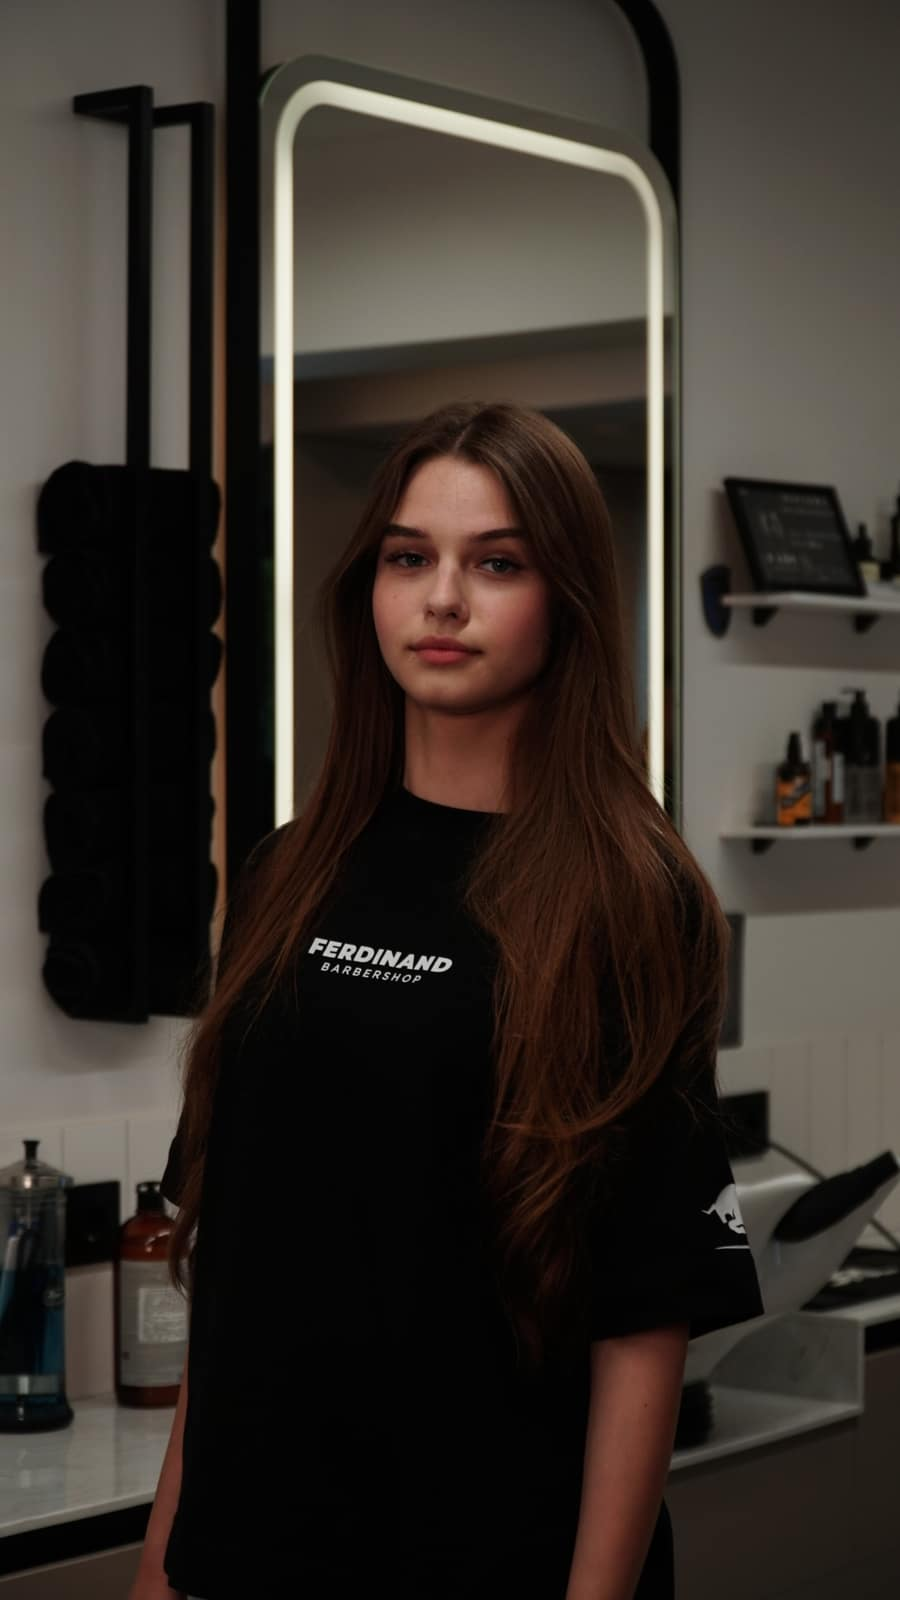
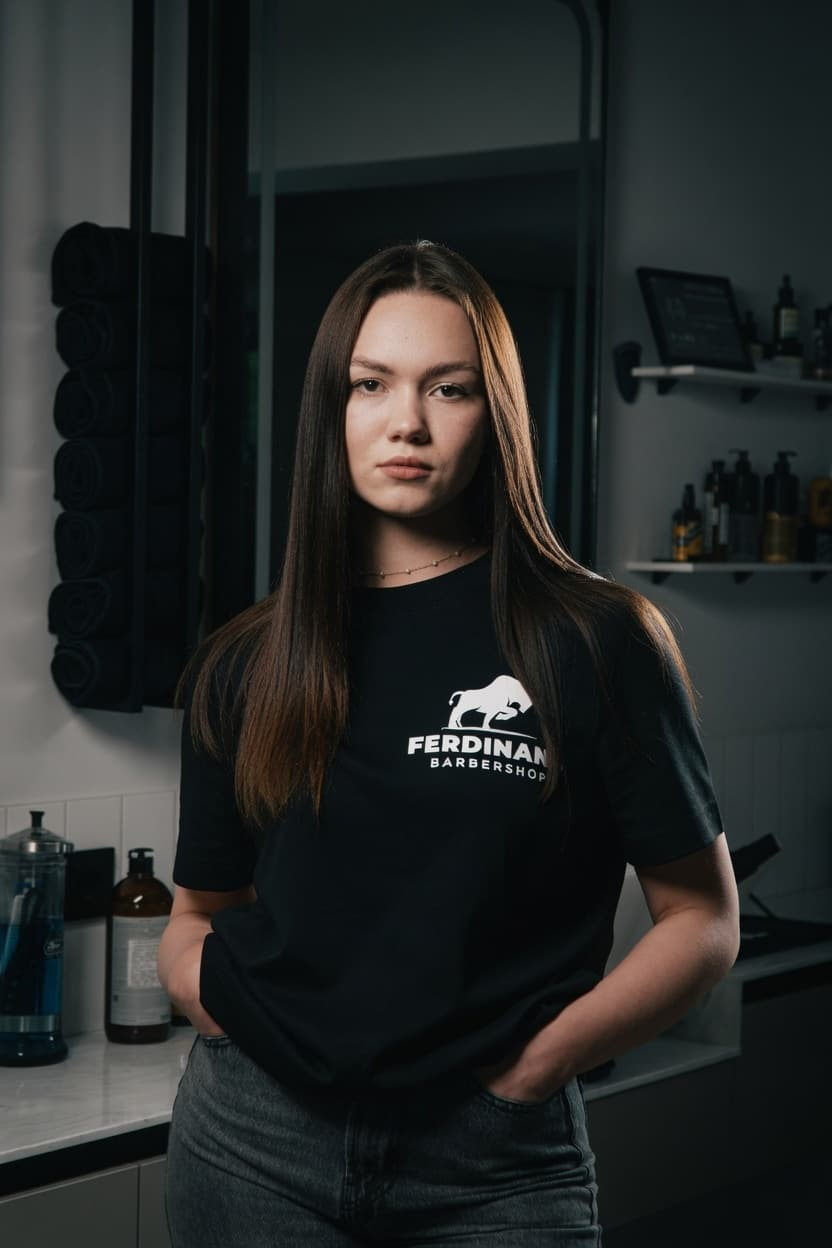
content(about): replace gallery with team photos (5 portraits from last-images)

diff --git a/about.html b/about.html
@@ -91,22 +91,16 @@
                 </div>
                 <div class="about-infinite-gallery">
                     <div class="about-loop-track">
-                        <figure><img loading="lazy" decoding="async" src="images/gallery-1.jpg" alt="Ferdinand barbershop"><figcaption>Craft</figcaption></figure>
-                        <figure><img loading="lazy" decoding="async" src="images/gallery-2.jpg" alt="Ferdinand barbershop"><figcaption>Form</figcaption></figure>
-                        <figure><img loading="lazy" decoding="async" src="images/gallery-3.jpg" alt="Ferdinand barbershop"><figcaption>Detail</figcaption></figure>
-                        <figure><img loading="lazy" decoding="async" src="images/gallery-4.jpg" alt="Ferdinand barbershop"><figcaption>Care</figcaption></figure>
-                        <figure><img loading="lazy" decoding="async" src="images/gallery-5.jpg" alt="Ferdinand barbershop"><figcaption>Style</figcaption></figure>
-                        <figure><img loading="lazy" decoding="async" src="images/gallery-6.jpg" alt="Ferdinand barbershop"><figcaption>Texture</figcaption></figure>
-                        <figure><img loading="lazy" decoding="async" src="images/gallery-8.jpg" alt="Ferdinand barbershop"><figcaption>Mood</figcaption></figure>
-                        <figure><img loading="lazy" decoding="async" src="images/gallery-9.jpg" alt="Ferdinand barbershop"><figcaption>Shape</figcaption></figure>
+                        <figure><img loading="lazy" decoding="async" src="images/gallery-1.jpg" alt="Команда Ferdinand"><figcaption>Craft</figcaption></figure>
+                        <figure><img loading="lazy" decoding="async" src="images/gallery-2.jpg" alt="Команда Ferdinand"><figcaption>Form</figcaption></figure>
+                        <figure><img loading="lazy" decoding="async" src="images/gallery-3.jpg" alt="Команда Ferdinand"><figcaption>Detail</figcaption></figure>
+                        <figure><img loading="lazy" decoding="async" src="images/gallery-4.jpg" alt="Команда Ferdinand"><figcaption>Care</figcaption></figure>
+                        <figure><img loading="lazy" decoding="async" src="images/gallery-5.jpg" alt="Команда Ferdinand"><figcaption>Style</figcaption></figure>
                         <figure><img loading="lazy" decoding="async" src="images/gallery-1.jpg" alt="" aria-hidden="true"><figcaption>Craft</figcaption></figure>
                         <figure><img loading="lazy" decoding="async" src="images/gallery-2.jpg" alt="" aria-hidden="true"><figcaption>Form</figcaption></figure>
                         <figure><img loading="lazy" decoding="async" src="images/gallery-3.jpg" alt="" aria-hidden="true"><figcaption>Detail</figcaption></figure>
                         <figure><img loading="lazy" decoding="async" src="images/gallery-4.jpg" alt="" aria-hidden="true"><figcaption>Care</figcaption></figure>
                         <figure><img loading="lazy" decoding="async" src="images/gallery-5.jpg" alt="" aria-hidden="true"><figcaption>Style</figcaption></figure>
-                        <figure><img loading="lazy" decoding="async" src="images/gallery-6.jpg" alt="" aria-hidden="true"><figcaption>Texture</figcaption></figure>
-                        <figure><img loading="lazy" decoding="async" src="images/gallery-8.jpg" alt="" aria-hidden="true"><figcaption>Mood</figcaption></figure>
-                        <figure><img loading="lazy" decoding="async" src="images/gallery-9.jpg" alt="" aria-hidden="true"><figcaption>Shape</figcaption></figure>
                     </div>
                 </div>
             </section>
